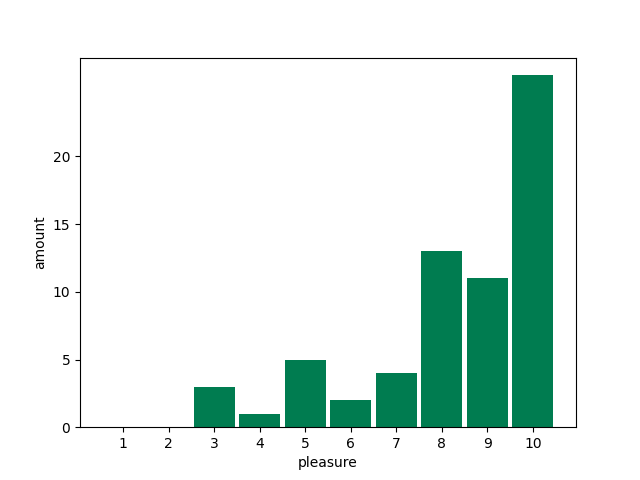
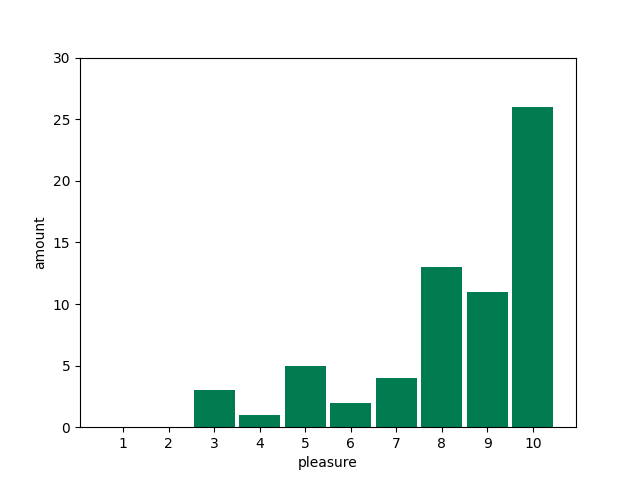
corrected scale of one diagram

diff --git a/create_histograms.py b/create_histograms.py
@@ -384,7 +384,7 @@ def create_histogram(which_histogram):
         # plt.xticks(np.arange(9,61,1))
         ax.set_xticks([1, 2, 3, 4, 5, 6, 7, 8, 9, 10])
         ax.set_xticklabels(['1', '2', '3', '4', '5', '6','7', '8', '9', '10'])
-        ax.set_yticks([0, 5, 10, 15, 20])
+        ax.set_yticks([0, 5, 10, 15, 20, 25, 30])
         ax.set_ylabel('amount')
         ax.set_xlabel('pleasure')
 
@@ -401,8 +401,8 @@ def main():
     # create_histogram('motivation')
     # create_histogram('stress')
     # create_histogram('frequence book')
-    create_histogram('health')
-    # create_histogram('pleasure')
+    # create_histogram('health')
+    create_histogram('pleasure')
 
 
 if __name__ ==  main():
